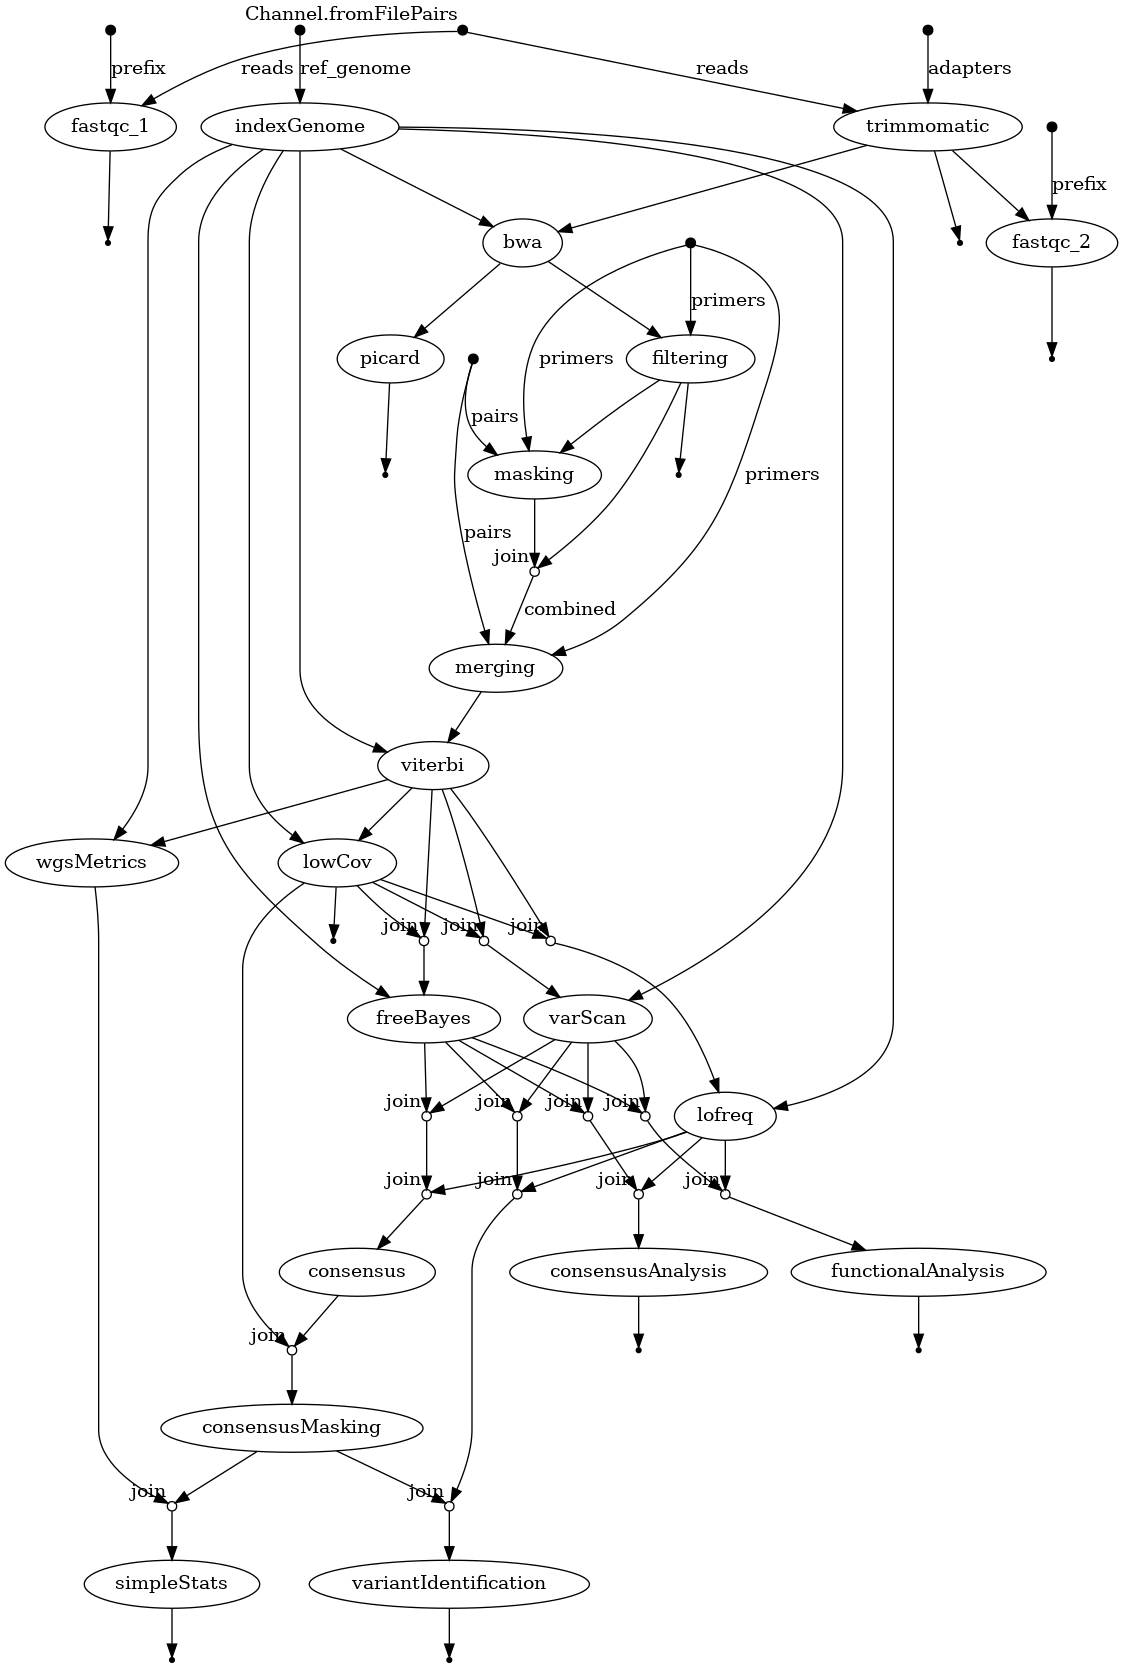
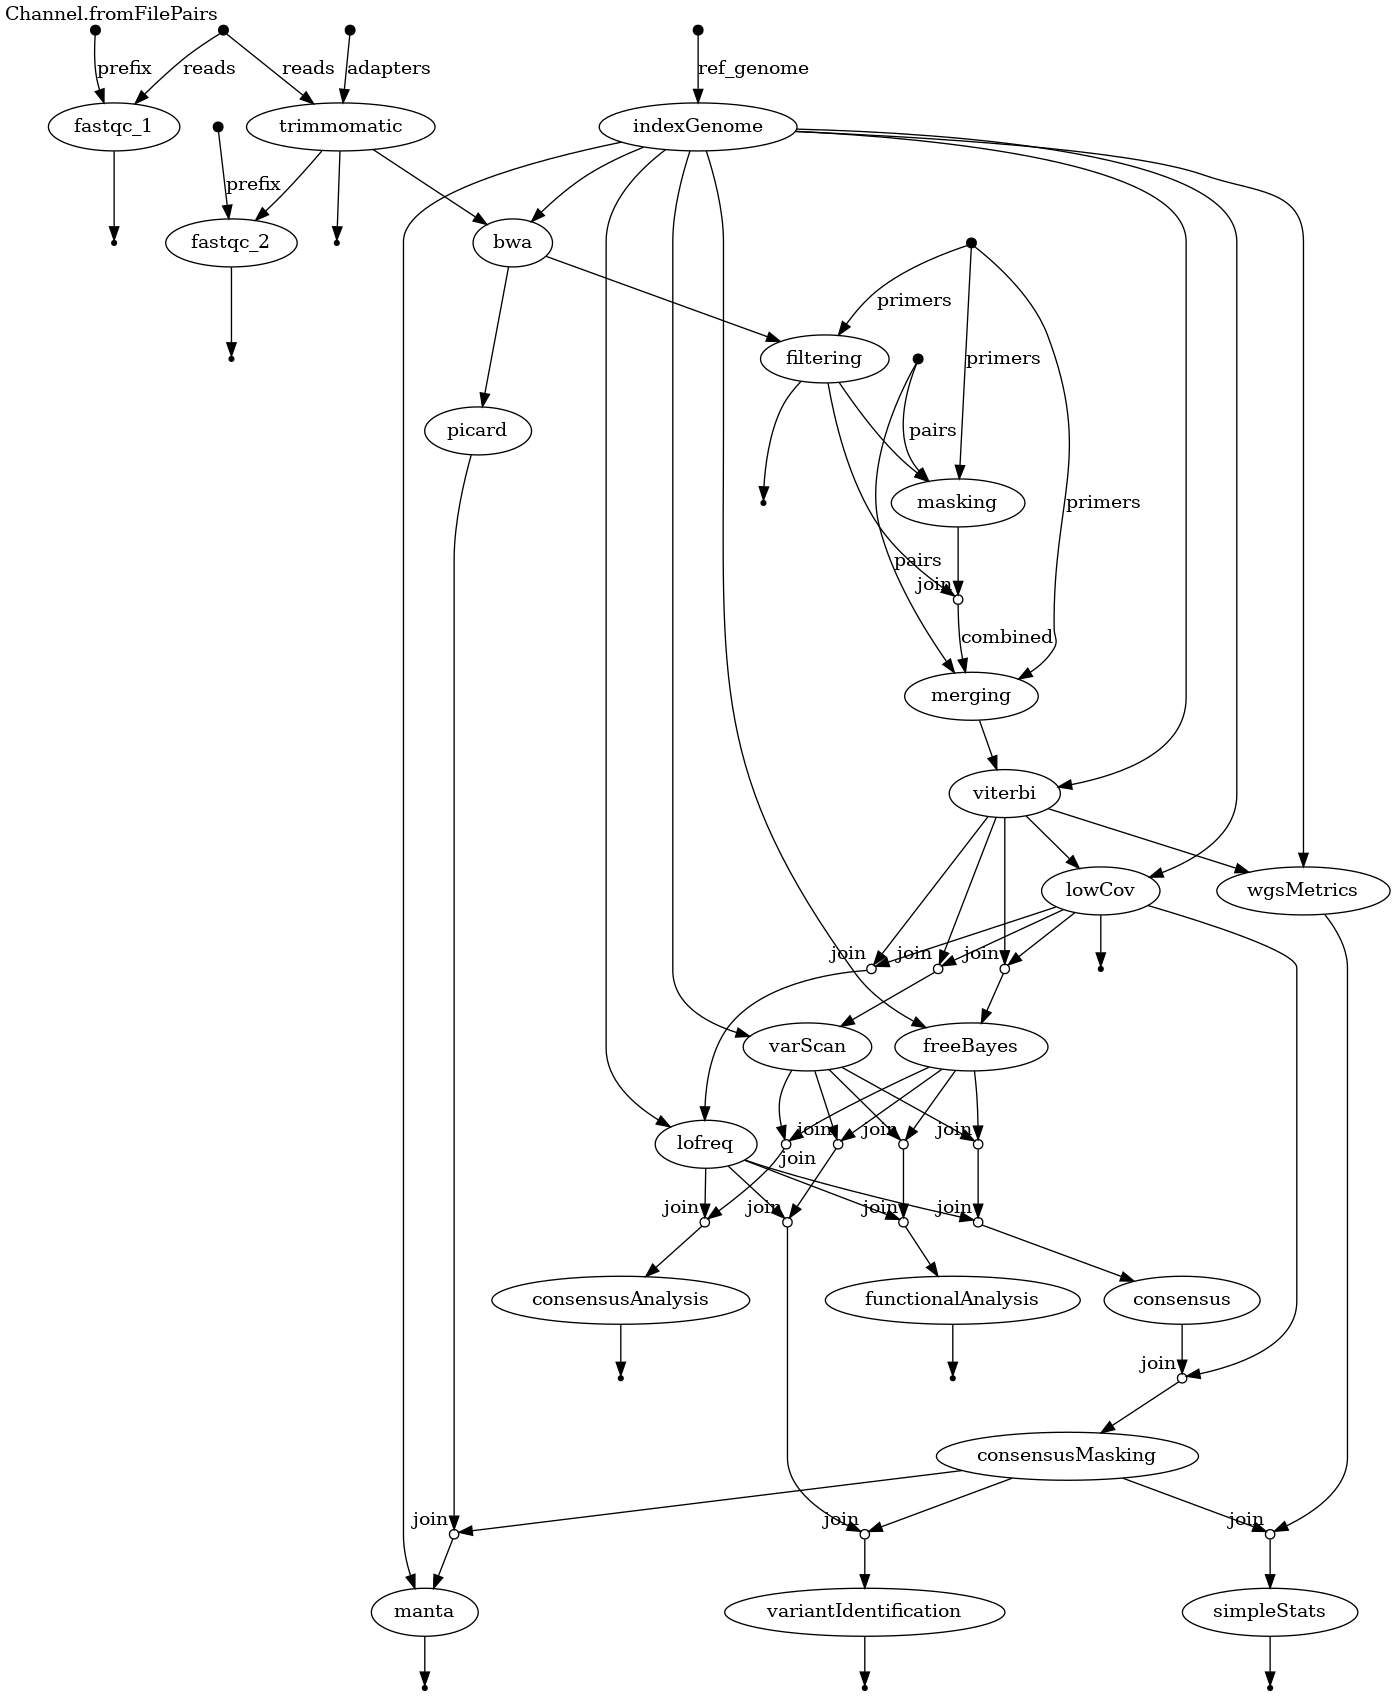
Manta integration

diff --git a/README.md b/README.md
@@ -1,8 +1,32 @@
 NextFlow pipeline for SARS-CoV-2 Illumina data
 ==============================================
 
-This pipeline is reimplementation of [pzh_pipeline_sars_illumina]( https://github.com/michallaz/pzh_pipeline_sars_illumina) in NextFlow.
+This pipeline is reimplementation of [pzh_pipeline_sars_illumina](https://github.com/michallaz/pzh_pipeline_sars_illumina) in NextFlow.
+I has also integrated SV module from [pzh_pipeline_sars_illumina_SV](https://github.com/michallaz/pzh_pipeline_sars_illumina_SV).
 
 ### Pipeline visualisation
 
 ![flowchart](flowchart.png "overview of the pipeline")
+
+### Installation and usage
+
+1. Install NextFlow
+
+```bash
+  curl -s https://get.nextflow.io | bash
+  mv nextflow ~/bin
+```
+
+2. Build two containers:
+
+```bash
+  docker build --target production -f Dockerfile-main -t nf_illumina_sars-3.0 .
+  docker build --target prodcution -f Dockerfile-manta -t nf_illumina_sars-3.0-manta .
+```
+
+3. Copy `run_nf_pipeline.sh.template` to `run_nf_pipeline.sh` and fill in the paths to the reads and output directory.
+4. Run the pipeline:
+
+```bash
+  ./run_nf_pipeline.sh
+```
